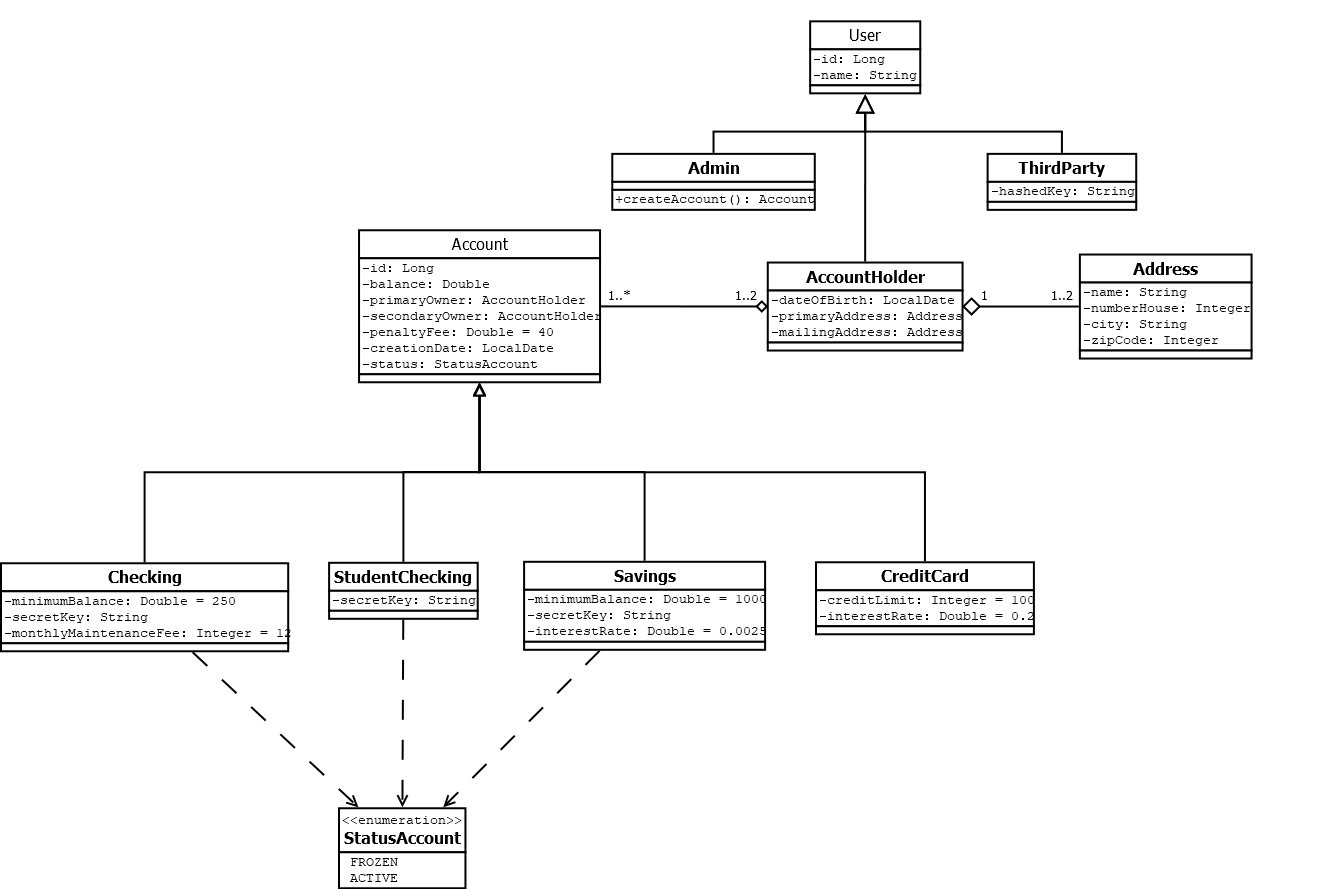
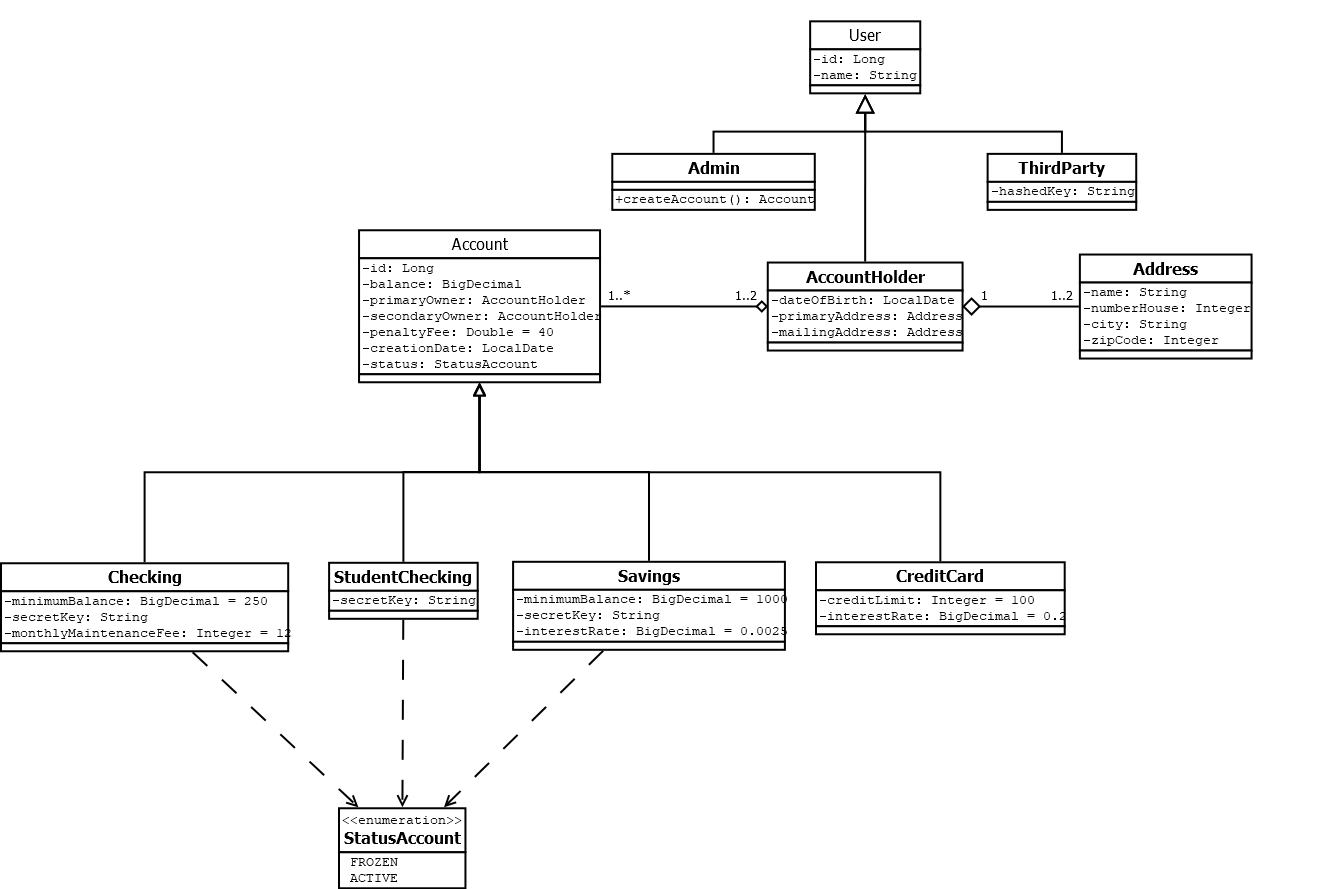
Foto diagrama actualizado

diff --git a/README.md b/README.md
@@ -9,5 +9,5 @@
 5. Los métodos toString() de las clases hijas, están sobreescritos correctamente, ya que si lo sobreescribes de normal, los atributos que hereda no los tendrá en cuenta.
 6. A la hora de acceder a los balance de los accounts, solo pueden acceder los primary owners y secondary owners a sus respectivas cuentas. He tenido en cuenta que los secondary owners también puedan acceder (Aparte de los Admins)
 
-### Diagrama de Clases (No acabado)
+### Diagrama de Clases
 ![](DiagramaDeClasesBanco.png)
